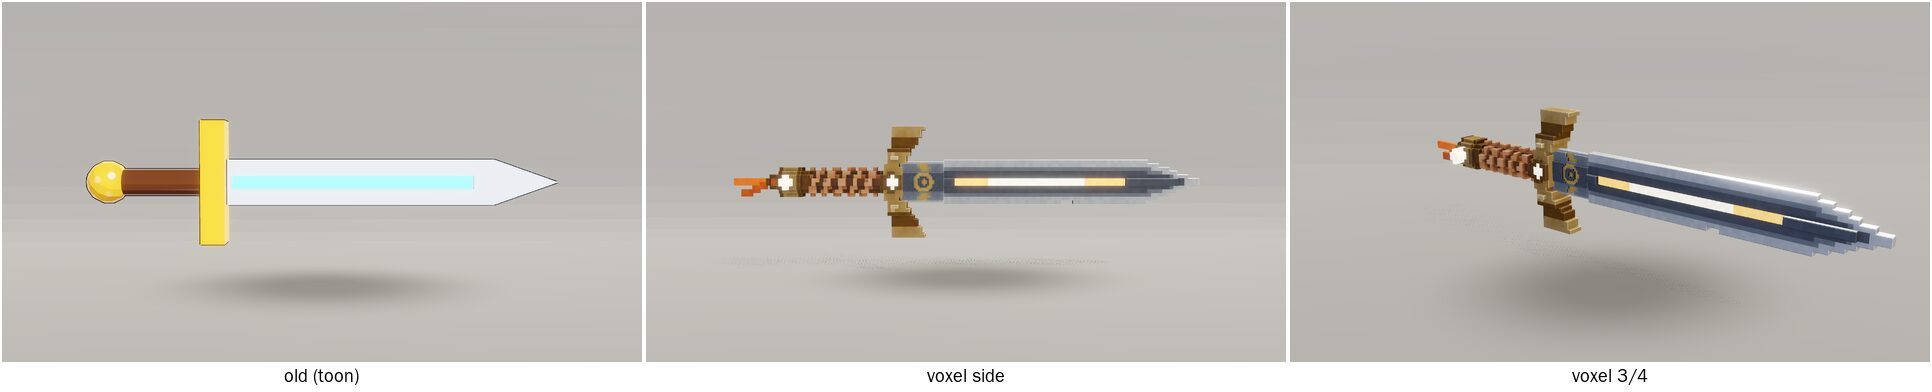
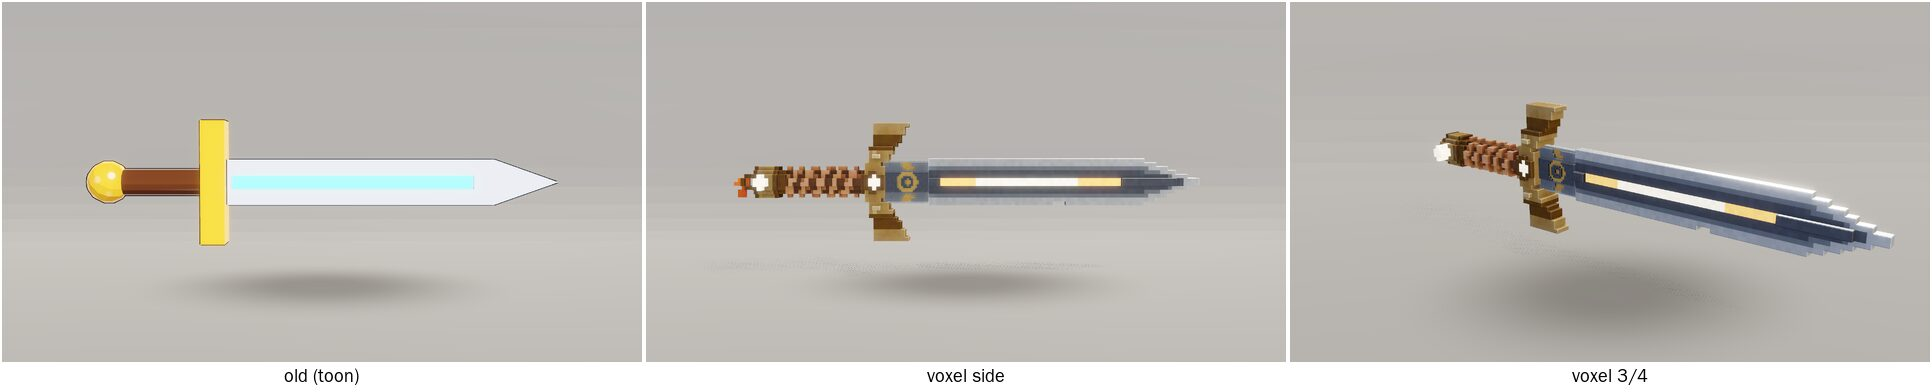
voxel weapons: keep the blade tassel inside the old bounds; Brann hook-up preview; budget table
- Storm Blade tassel: a proper rounded ribbon end, short enough to stay within
  the old model's bounds + 10 cm (test_every_voxel_weapon_keeps_the_old_models_size_and_grip).
- Revolver arc coils glow in the energy colour instead of reading as white bands.
- Sheet: measured vertex/build budget, and the Brann hook-up verified on a
  scratch merge with lookdev/brann-voxel (preview in reports/lookdev/weapons/).
- TODO: file the wall-clock AI cost test as flaky on the cloud CPU (fails on
  an untouched 3246c72 too); threshold left as is.

Claude-Session: https://claude.ai/code/session_01WbnN9e4L123XCPATPicbjg

diff --git a/docs/lookdev/weapons.md b/docs/lookdev/weapons.md
@@ -88,6 +88,31 @@ originals from their sheets.
 | **Storm Repeater** (pickup) | Item gold, charcoal, wood; gold | Receiver, stock, three barrels / gold drum, clamp, muzzle ring, foregrip / drum flutes, gold charge rails, stitched cheek pad, item spark on the drum faces (5.5 mm) |
 | **Heartstring Bow** (Heartbloom pickup) | Rose lacquer, item gold, Heartbloom pink; pink-white | Lyra's recurve build / gold strips, pink inlay / heart lights, heart medallion, the old model's gold sparkles |
 
+## Budget (measured, `voxel_weapon_stats.gd`)
+
+| Weapon | Vertices | Triangles | Surfaces | Build (ms, cloud CPU) |
+|---|---|---|---|---|
+| Storm Blade | 22,864 | 11,432 | 3 | ~800 |
+| Arc Revolver | 23,936 | 11,968 | 3 | ~1,600 |
+| Ki Gauntlet (x2 in hand) | 21,144 | 10,572 | 3 | ~1,000 |
+| Orbit Chakram | 34,712 | 17,356 | 3 | ~1,600 |
+| Ki Bow | 9,648 | 4,824 | 4 | ~500 |
+| Sky Lance | 29,808 | 14,904 | 4 | ~1,300 |
+| Titan Hammer | 55,464 | 27,732 | 4 | ~3,300 |
+| Scatter Cannon | 60,000 | 30,000 | 3 | ~4,500 |
+| Ember Scythe | 33,440 | 16,720 | 4 | ~2,000 |
+| Storm Repeater | 58,048 | 29,024 | 4 | ~4,000 |
+| Heartstring Bow | 9,536 | 4,768 | 4 | ~500 |
+
+Meshes are built once per process on first use and shared. The build runs in
+GDScript on the main thread, so the first draw of each weapon hitches; before
+these go in-game, bake them to `.res` (or build at match load).
+
+The Brann hook-up above was checked on a scratch merge of
+`lookdev/brann-voxel` + this branch: with the node added, both stowed weapons
+and both held weapons are the voxel models
+(`reports/lookdev/weapons/brann_voxel_held_preview.jpg`).
+
 ## Look-dev captures
 
 Weapon alone (side and 3/4, the weapon turns so the cyclorama fills the

diff --git a/TODO.md b/TODO.md
@@ -18,6 +18,9 @@ and `[desktop]` (cloud agents). See `AGENTS.md` for folder ownership.
   (old meshes stay the default). Voxel Kael uses them. Open: owner look review on a real GPU; hook
   `VoxelArmory` into the Vexa/Lyra/Brann voxel scenes when those branches merge; voxel nocked arrow
   and projectiles (still the old meshes); weapon clearance boxes are still the old models' parts.
+  - T-LD-Wa [desktop] `test_an_ai_costs_at_most_0_05_ms_per_tick` is wall-clock and flaky on the cloud
+    CPU: 0.0372 and 0.0528 ms on an untouched 3246c72 (same box, back to back). Needs a CPU-relative
+    budget or a median of runs; threshold left as is.
 - T-UI1 [desktop] HUD restyle (`claude/T-UI1-hud-restyle`, #117): plates, clock, banners (pop-in),
   combo, READ!, control hints, fly-down and beam-clash prompts on `MenuTheme` (skewed navy panels,
   ink borders, display font, gold/cyan/hot, team colours); legend portraits in the plate tiles, hit
